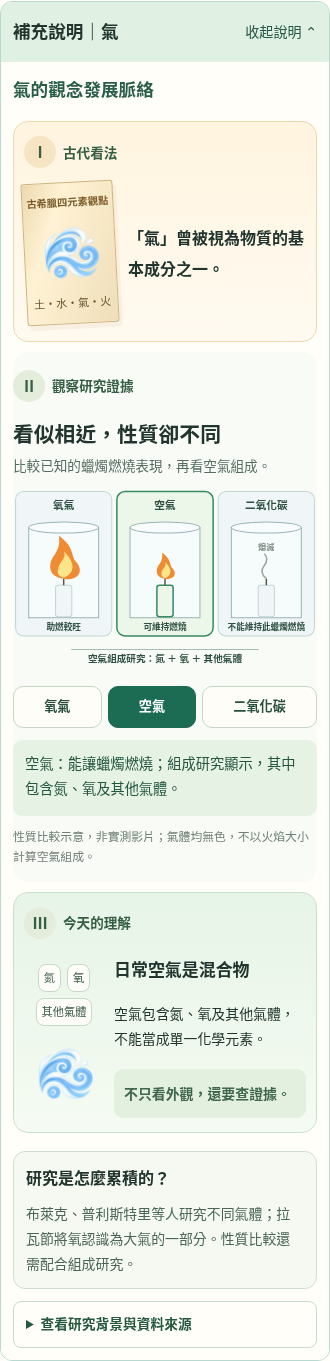
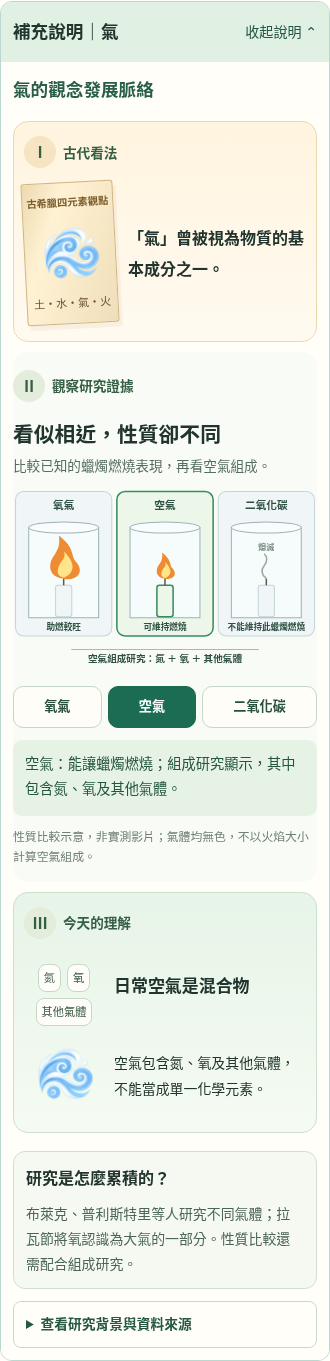
Remove shared evidence reminder from classical element details

Changed region(s): [[0.3333, 0.7098, 0.8485, 0.8332]]

diff --git a/units/6/parts/6.1/assets/classical-inquiry.css b/units/6/parts/6.1/assets/classical-inquiry.css
@@ -1,6 +1,6 @@
-.visual-inquiry{padding:20px 16px;background:#fffef9}.visual-inquiry>h4{margin:0 0 16px;font-size:1.1rem;color:#285e48}.inquiry-grid{display:grid;grid-template-columns:minmax(125px,.7fr) minmax(0,2.1fr) minmax(160px,.9fr);gap:15px;align-items:stretch}.inquiry-stage{min-width:0;border-radius:15px;padding:15px 12px}.inquiry-past{background:linear-gradient(#fff4df,#fffaf0);border:1px solid #edd8ae}.inquiry-evidence{background:#f9fbf6;padding:15px 0}.inquiry-modern{background:linear-gradient(#e7f4e8,#f5fbf2);border:1px solid #c9e0cc}.inquiry-kicker{display:flex;align-items:center;gap:7px;color:#355f45;font-size:.86rem;font-weight:800;line-height:1.6;min-height:36px;margin-bottom:15px}.inquiry-kicker b{display:grid;place-items:center;width:32px;height:32px;background:#e4ecdc;border-radius:50%;flex:0 0 auto;font-size:.95rem}.inquiry-past .inquiry-kicker b{background:#f6e4c2}.inquiry-evidence h5{font-size:1.24rem;line-height:1.45;margin:0 0 6px}.inquiry-evidence>p:first-of-type{font-size:.85rem;color:#566e62;line-height:1.6;margin:0 0 12px}.ancient-paper{margin:20px 0 18px;padding:14px 6px;border:1px solid #d0b47e;border-radius:3px;background:linear-gradient(110deg,#ecd9af,#fff2d4 30%,#efdeb9);box-shadow:3px 5px 0 #c9b18520;text-align:center;transform:rotate(-3deg)}.ancient-paper>span{display:block;font-size:.72rem;color:#7b5c2b;font-weight:750}.ancient-paper .classical-icon{display:block;width:95px;height:95px;margin:14px auto}.ancient-paper>small{display:block;font-size:.85rem;color:#6b542e;white-space:nowrap}.inquiry-past>p{font-size:1rem;font-weight:750;line-height:1.9;margin:16px 0}.inquiry-modern h5{font-size:1.17rem;line-height:1.65;margin:18px 0 12px}.inquiry-modern>p{font-size:.94rem;line-height:1.85}.inquiry-principle{font-size:.87rem;font-weight:750;color:#40664d;background:#e4f0df;padding:12px 10px;margin-top:18px;border-radius:9px}.result-chips{display:flex;flex-wrap:wrap;gap:6px;justify-content:center;margin:18px 0 8px}.result-chips span{padding:5px 8px;border:1px solid #c6d9c3;border-radius:8px;background:#fffdfa;font-size:.8rem;color:#395943}.inquiry-modern .classical-icon{display:block;width:110px;height:110px;margin:14px auto}.inquiry-svg{display:block;width:100%;height:auto}.inquiry-svg text{font-family:inherit;font-size:21px;font-weight:700;fill:#2f5144}.inquiry-svg .diagram-heading{font-size:19px}.inquiry-svg .diagram-caption{font-size:16px;font-weight:600}.inquiry-svg .gas-result{font-size:18px}.inquiry-svg .smoke-label{font-size:16px;fill:#7e8d86}.inquiry-svg .water-record>rect,.inquiry-svg .gas-record>rect,.inquiry-svg .metal-record>rect{fill:#f0f6f7;stroke:#c4d6d4;stroke-width:2}.inquiry-svg .water-record.focused>rect,.inquiry-svg .gas-record.focused>rect,.inquiry-svg .metal-record.focused>rect{fill:#ecf7e9;stroke:#378b61;stroke-width:3}.oxygen-route{opacity:.78}.oxygen-route.focused{opacity:1;filter:drop-shadow(0 0 4px #90caa1)}.oxygen-route.focused>rect{fill:#d8efdc;stroke:#25834e;stroke-width:3}.inquiry-controls{display:flex;flex-wrap:wrap;gap:6px;margin:12px 0}.inquiry-controls button{flex:1 1 auto;min-height:42px;padding:7px 9px;border:1px solid #c6d7c7;border-radius:10px;background:#fffdf7;color:#28503c;font-weight:750;font-size:.86rem}.inquiry-controls button[aria-pressed="true"]{background:#1b6c53;border-color:#1b6c53;color:white}#inquiry-feedback{padding:11px 12px;background:#e6f3e4;border-radius:9px;font-size:.89rem;line-height:1.8;color:#245640;min-height:76px;margin:0}#inquiry-diagram-note{font-size:.74rem;line-height:1.7;color:#708075;margin:10px 0 0}.soil-observer{width:100%;margin:auto;border-radius:14px;overflow:hidden;background:#fbfaf1}.soil-observer svg{display:block;width:100%;height:auto}.soil-target{cursor:pointer}.soil-ring{fill:transparent;stroke:#f6f7f0;stroke-width:5;stroke-dasharray:10 8}.soil-target.focused .soil-ring{stroke:#20a0cb;stroke-width:9;stroke-dasharray:none;fill:#e5f8ff28}.soil-target:focus-visible{outline:none}.soil-target:focus-visible .soil-ring{stroke:#b9791f;stroke-width:10;stroke-dasharray:none}.soil-legend{display:flex;flex-wrap:wrap;gap:5px 12px;justify-content:center;margin:8px 0;color:#577062;font-size:.74rem}.inquiry-history-brief{padding:15px 17px;border:1px solid #d0ded0;border-radius:12px;background:#f6f9f2;margin-top:18px;display:flex;gap:18px;align-items:center}.inquiry-history-brief strong{flex:0 0 auto;font-size:1rem}.inquiry-history-brief p{margin:0;font-size:.87rem;color:#4b6656;line-height:1.8}#inquiry-research{margin-top:12px;font-size:.86rem}#inquiry-research summary{padding:10px 12px;border:1px solid #c8d9ce;border-radius:8px;color:#24593f;cursor:pointer;font-weight:750;min-height:44px}.inquiry-background{padding:16px;background:#f4f8f0;border-radius:0 0 10px 10px;line-height:1.9}.inquiry-background h5{font-size:.94rem;margin:15px 0 5px}.inquiry-background h5:first-child{margin-top:0}.inquiry-background p{margin:5px 0 12px}#history-scope{color:#5d7363;font-size:.83rem}#history-sources{overflow-wrap:anywhere}
+.visual-inquiry{padding:20px 16px;background:#fffef9}.visual-inquiry>h4{margin:0 0 16px;font-size:1.1rem;color:#285e48}.inquiry-grid{display:grid;grid-template-columns:minmax(125px,.7fr) minmax(0,2.1fr) minmax(160px,.9fr);gap:15px;align-items:stretch}.inquiry-stage{min-width:0;border-radius:15px;padding:15px 12px}.inquiry-past{background:linear-gradient(#fff4df,#fffaf0);border:1px solid #edd8ae}.inquiry-evidence{background:#f9fbf6;padding:15px 0}.inquiry-modern{background:linear-gradient(#e7f4e8,#f5fbf2);border:1px solid #c9e0cc}.inquiry-kicker{display:flex;align-items:center;gap:7px;color:#355f45;font-size:.86rem;font-weight:800;line-height:1.6;min-height:36px;margin-bottom:15px}.inquiry-kicker b{display:grid;place-items:center;width:32px;height:32px;background:#e4ecdc;border-radius:50%;flex:0 0 auto;font-size:.95rem}.inquiry-past .inquiry-kicker b{background:#f6e4c2}.inquiry-evidence h5{font-size:1.24rem;line-height:1.45;margin:0 0 6px}.inquiry-evidence>p:first-of-type{font-size:.85rem;color:#566e62;line-height:1.6;margin:0 0 12px}.ancient-paper{margin:20px 0 18px;padding:14px 6px;border:1px solid #d0b47e;border-radius:3px;background:linear-gradient(110deg,#ecd9af,#fff2d4 30%,#efdeb9);box-shadow:3px 5px 0 #c9b18520;text-align:center;transform:rotate(-3deg)}.ancient-paper>span{display:block;font-size:.72rem;color:#7b5c2b;font-weight:750}.ancient-paper .classical-icon{display:block;width:95px;height:95px;margin:14px auto}.ancient-paper>small{display:block;font-size:.85rem;color:#6b542e;white-space:nowrap}.inquiry-past>p{font-size:1rem;font-weight:750;line-height:1.9;margin:16px 0}.inquiry-modern h5{font-size:1.17rem;line-height:1.65;margin:18px 0 12px}.inquiry-modern>p{font-size:.94rem;line-height:1.85}.result-chips{display:flex;flex-wrap:wrap;gap:6px;justify-content:center;margin:18px 0 8px}.result-chips span{padding:5px 8px;border:1px solid #c6d9c3;border-radius:8px;background:#fffdfa;font-size:.8rem;color:#395943}.inquiry-modern .classical-icon{display:block;width:110px;height:110px;margin:14px auto}.inquiry-svg{display:block;width:100%;height:auto}.inquiry-svg text{font-family:inherit;font-size:21px;font-weight:700;fill:#2f5144}.inquiry-svg .diagram-heading{font-size:19px}.inquiry-svg .diagram-caption{font-size:16px;font-weight:600}.inquiry-svg .gas-result{font-size:18px}.inquiry-svg .smoke-label{font-size:16px;fill:#7e8d86}.inquiry-svg .water-record>rect,.inquiry-svg .gas-record>rect,.inquiry-svg .metal-record>rect{fill:#f0f6f7;stroke:#c4d6d4;stroke-width:2}.inquiry-svg .water-record.focused>rect,.inquiry-svg .gas-record.focused>rect,.inquiry-svg .metal-record.focused>rect{fill:#ecf7e9;stroke:#378b61;stroke-width:3}.oxygen-route{opacity:.78}.oxygen-route.focused{opacity:1;filter:drop-shadow(0 0 4px #90caa1)}.oxygen-route.focused>rect{fill:#d8efdc;stroke:#25834e;stroke-width:3}.inquiry-controls{display:flex;flex-wrap:wrap;gap:6px;margin:12px 0}.inquiry-controls button{flex:1 1 auto;min-height:42px;padding:7px 9px;border:1px solid #c6d7c7;border-radius:10px;background:#fffdf7;color:#28503c;font-weight:750;font-size:.86rem}.inquiry-controls button[aria-pressed="true"]{background:#1b6c53;border-color:#1b6c53;color:white}#inquiry-feedback{padding:11px 12px;background:#e6f3e4;border-radius:9px;font-size:.89rem;line-height:1.8;color:#245640;min-height:76px;margin:0}#inquiry-diagram-note{font-size:.74rem;line-height:1.7;color:#708075;margin:10px 0 0}.soil-observer{width:100%;margin:auto;border-radius:14px;overflow:hidden;background:#fbfaf1}.soil-observer svg{display:block;width:100%;height:auto}.soil-target{cursor:pointer}.soil-ring{fill:transparent;stroke:#f6f7f0;stroke-width:5;stroke-dasharray:10 8}.soil-target.focused .soil-ring{stroke:#20a0cb;stroke-width:9;stroke-dasharray:none;fill:#e5f8ff28}.soil-target:focus-visible{outline:none}.soil-target:focus-visible .soil-ring{stroke:#b9791f;stroke-width:10;stroke-dasharray:none}.soil-legend{display:flex;flex-wrap:wrap;gap:5px 12px;justify-content:center;margin:8px 0;color:#577062;font-size:.74rem}.inquiry-history-brief{padding:15px 17px;border:1px solid #d0ded0;border-radius:12px;background:#f6f9f2;margin-top:18px;display:flex;gap:18px;align-items:center}.inquiry-history-brief strong{flex:0 0 auto;font-size:1rem}.inquiry-history-brief p{margin:0;font-size:.87rem;color:#4b6656;line-height:1.8}#inquiry-research{margin-top:12px;font-size:.86rem}#inquiry-research summary{padding:10px 12px;border:1px solid #c8d9ce;border-radius:8px;color:#24593f;cursor:pointer;font-weight:750;min-height:44px}.inquiry-background{padding:16px;background:#f4f8f0;border-radius:0 0 10px 10px;line-height:1.9}.inquiry-background h5{font-size:.94rem;margin:15px 0 5px}.inquiry-background h5:first-child{margin-top:0}.inquiry-background p{margin:5px 0 12px}#history-scope{color:#5d7363;font-size:.83rem}#history-sources{overflow-wrap:anywhere}
 @media(max-width:1150px){.inquiry-grid{grid-template-columns:minmax(110px,.6fr) minmax(0,1.8fr) minmax(135px,.75fr);gap:10px}.inquiry-stage{padding:12px 10px}.inquiry-evidence{padding:12px 0}.inquiry-modern h5{font-size:1.05rem}.inquiry-modern>p{font-size:.87rem}.inquiry-kicker{font-size:.79rem}.ancient-paper .classical-icon{width:80px;height:80px}.inquiry-past>p{font-size:.91rem}}
-@media(max-width:1000px){.inquiry-grid{grid-template-columns:1fr}.inquiry-past{display:grid;grid-template-columns:110px minmax(0,1fr);gap:8px 15px;align-items:center}.inquiry-past .inquiry-kicker{grid-column:1/-1;margin-bottom:0}.ancient-paper{margin:4px 0}.inquiry-past>p{font-size:1rem}.inquiry-evidence{padding:16px 0}.inquiry-modern{display:grid;grid-template-columns:110px minmax(0,1fr);gap:4px 15px;align-items:center}.inquiry-modern .inquiry-kicker{grid-column:1/-1;margin:0}.inquiry-modern #inquiry-conclusion-visual{grid-row:2/5}.inquiry-modern .classical-icon{width:80px;height:80px}.inquiry-modern h5{font-size:1.2rem;margin:8px 0}.inquiry-modern>p{font-size:.94rem;margin:0}.inquiry-principle{margin-top:8px}.inquiry-history-brief{display:block}.inquiry-history-brief p{margin-top:8px}.inquiry-evidence h5{font-size:1.3rem}.visual-inquiry{padding:16px}}
+@media(max-width:1000px){.inquiry-grid{grid-template-columns:1fr}.inquiry-past{display:grid;grid-template-columns:110px minmax(0,1fr);gap:8px 15px;align-items:center}.inquiry-past .inquiry-kicker{grid-column:1/-1;margin-bottom:0}.ancient-paper{margin:4px 0}.inquiry-past>p{font-size:1rem}.inquiry-evidence{padding:16px 0}.inquiry-modern{display:grid;grid-template-columns:110px minmax(0,1fr);gap:4px 15px;align-items:center}.inquiry-modern .inquiry-kicker{grid-column:1/-1;margin:0}.inquiry-modern #inquiry-conclusion-visual{grid-row:2/4}.inquiry-modern .classical-icon{width:80px;height:80px}.inquiry-modern h5{font-size:1.2rem;margin:8px 0}.inquiry-modern>p{font-size:.94rem;margin:0}.inquiry-history-brief{display:block}.inquiry-history-brief p{margin-top:8px}.inquiry-evidence h5{font-size:1.3rem}.visual-inquiry{padding:16px}}
 @media(max-width:420px){.visual-inquiry{padding:12px}.inquiry-past{grid-template-columns:92px minmax(0,1fr);gap:8px 12px}.ancient-paper{padding:10px 4px}.ancient-paper>span{font-size:.64rem}.ancient-paper .classical-icon{width:66px;height:66px;margin:8px auto}.ancient-paper>small{font-size:.69rem}.inquiry-modern{grid-template-columns:80px minmax(0,1fr);gap:5px 10px}.inquiry-modern h5{font-size:1.06rem}.inquiry-modern>p{font-size:.87rem}.inquiry-modern .classical-icon{width:66px;height:66px}.result-chips span{font-size:.7rem;padding:3px 5px}.inquiry-controls button{font-size:.82rem}.inquiry-svg .diagram-heading{font-size:21px}.inquiry-svg .diagram-caption{font-size:18px}.inquiry-svg .gas-result{font-size:17px}.inquiry-svg .air-composition .diagram-heading{font-size:19px}.inquiry-history-brief{padding:12px}.inquiry-kicker{font-size:.85rem}}
 
 /* Water research: show apparatus, observation and identification together. */

diff --git a/units/6/parts/6.1/index.html b/units/6/parts/6.1/index.html
@@ -51,7 +51,7 @@
               <div class="inquiry-grid">
                 <article class="inquiry-past inquiry-stage" data-stage="past"><div class="inquiry-kicker"><b>Ⅰ</b> 古代看法</div><div class="ancient-paper"><span>古希臘四元素觀點</span><div id="inquiry-past-icon" class="classical-icon" aria-hidden="true"></div><small>土・水・氣・火</small></div><p id="inquiry-past-summary"></p></article>
                 <article class="inquiry-evidence inquiry-stage" data-stage="evidence"><div class="inquiry-kicker"><b>Ⅱ</b> 觀察研究證據</div><h5 id="inquiry-title"></h5><p id="inquiry-instruction"></p><div id="inquiry-diagram"></div><div class="inquiry-controls" id="inquiry-controls" role="group" aria-label="選擇觀察重點"></div><p id="inquiry-feedback" role="status"></p><p id="inquiry-diagram-note"></p></article>
-                <article class="inquiry-modern inquiry-stage" data-stage="modern"><div class="inquiry-kicker"><b>Ⅲ</b> 今天的理解</div><div id="inquiry-conclusion-visual" aria-hidden="true"></div><h5 id="inquiry-conclusion-title"></h5><p id="inquiry-conclusion-text"></p><div class="inquiry-principle">不只看外觀，還要查證據。</div></article>
+                <article class="inquiry-modern inquiry-stage" data-stage="modern"><div class="inquiry-kicker"><b>Ⅲ</b> 今天的理解</div><div id="inquiry-conclusion-visual" aria-hidden="true"></div><h5 id="inquiry-conclusion-title"></h5><p id="inquiry-conclusion-text"></p></article>
               </div>
               <div class="inquiry-history-brief"><strong>研究是怎麼累積的？</strong><p id="inquiry-history-brief"></p></div>
               <details id="inquiry-research"><summary>查看研究背景與資料來源</summary><div class="inquiry-background"><h5 id="history-past-title"></h5><p id="history-past-text"></p><h5 id="history-evidence-title"></h5><p id="history-evidence-text"></p><p id="history-observation"></p><h5 id="history-modern-title"></h5><p id="history-modern-text"></p><p id="history-scope"></p><p>查核資料：<span id="history-sources"></span></p></div></details>

diff --git a/docs/reviews/unit-6.1-visual-inquiry/review.md b/docs/reviews/unit-6.1-visual-inquiry/review.md
@@ -39,3 +39,9 @@
 - 圖為跨研究的概念示意，不宣稱復原歷史裝置；明示省略電解質與檢驗細節、不表示氣體體積比例。
 
 重新讀取 OpenStax 1.2 的水分解及圖 1.15，歷史人物沿用先前已查核資料。目視確認新版[桌面](water-desktop.png)及[手機研究圖](water-apparatus-mobile.png)，並將導線與文字分開；15 組子測試全部通過（含主項共 16 項），新增檢查水滴觀察、氣體檢驗與電極對應的可及說明。
+
+## 移除右側共用提示（2026-10-28）
+
+依使用者指示移除「不只看外觀，還要查證據。」及其淡綠底框，四項共用的現代理解區皆適用。移除未再使用的樣式，手機插畫跨列隨剩餘標題與說明調整。
+
+15 組既有瀏覽器子測試全部通過（含主項共 16 項），並目視桌面水區及手機氣區；更新這兩張驗證截圖。提示文字與專用樣式已從正式頁面移除。
